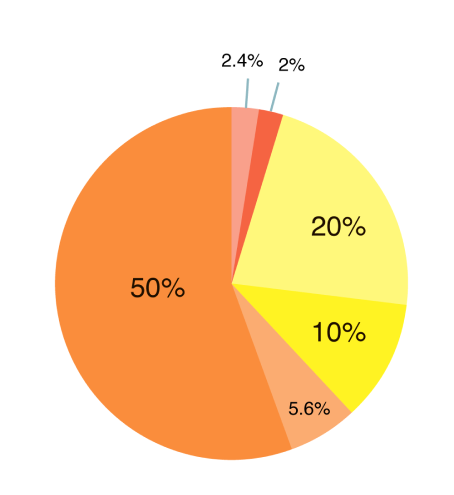
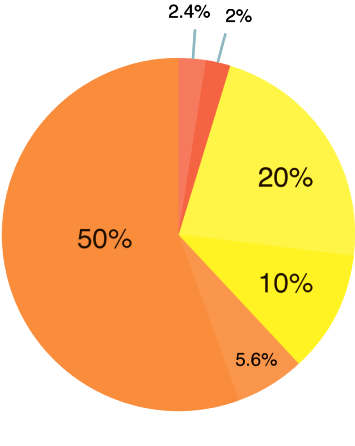
fix

diff --git a/src/assets/scss/pages/ieo/_ieo-info.scss b/src/assets/scss/pages/ieo/_ieo-info.scss
@@ -1,7 +1,7 @@
 .ieo_info{
 	max-width: 1409px;
 	margin: 0 auto;
-	padding: 1em 40px 1.5em 53px;
+	padding: 1.3em 40px 1.5em 53px;
 	@media(max-width: 1200px){
 		padding: 1em 15px 1em;
 	}
@@ -58,9 +58,12 @@
 	.graph-wr{
 		
 		img{
-				max-width: 100%;
+			max-width: 100%;
 			@media(min-width: 1201px){
-				margin-right: -3em;
+				width: 17.8em;
+				top: -1.6em;
+				position: relative;
+				left: 3.2em;
 			}
 		}
 	}
@@ -97,7 +100,7 @@
 				width: 14.2em;
 				@media(max-width: 1200px){
 					width: 30em;
-					    max-width: 33.333%;
+					max-width: 33.333%;
 
 				}
 			}
@@ -105,7 +108,7 @@
 				width: 12.3em;
 				@media(max-width: 1200px){
 					width: 30em;
-					    max-width: 33.333%;
+					max-width: 33.333%;
 
 				}
 			}
@@ -115,7 +118,7 @@
 			width: 11.7em;
 			@media(max-width: 1200px){
 				width: 30em;
-				    max-width: 33.333%;
+				max-width: 33.333%;
 
 			}
 		}

diff --git a/src/assets/scss/pages/ieo/_ieo-requirements.scss b/src/assets/scss/pages/ieo/_ieo-requirements.scss
@@ -8,7 +8,7 @@
 		// width: calc(73.7em + 40px);
 		margin: 0 auto;
 		    max-width: 1411px;
-		padding: 1.15em 40px 1.3em 51px;
+		padding: 1.15em 40px 1.1em 51px;
 
 		@media(max-width: 1200px){
 			padding: 1em 15px;
@@ -37,7 +37,7 @@
 	
 	.requirement-item {
 		display: flex;
-		padding: 1.7em 1.6em;
+		padding: 1.3em 1.6em;
 		justify-content: space-between;
 		align-items: center;
 		@media(max-width: 992px){

diff --git a/src/assets/scss/pages/ieo/_ieo_how_it_work.scss b/src/assets/scss/pages/ieo/_ieo_how_it_work.scss
@@ -66,10 +66,10 @@
 				text-align: center;
 			}
 			h5{
-				font-size: .95em;
+				font-size: .85em;
 				text-transform: uppercase;
 				color: #FFFFFF;
-				font-weight: 500;
+				font-weight: 400;
 				    margin-bottom: .6em;
     line-height: 1.27;
 			}

diff --git a/src/assets/scss/pages/ieo/_ieo-comunity.scss b/src/assets/scss/pages/ieo/_ieo-comunity.scss
@@ -5,7 +5,7 @@
 	.community-wr{
 		display: flex;
 		align-items: center;
-		padding: 1em 40px 1em 51px;
+		padding: 1.2em 40px 1.1em 51px;
 		    max-width: 1407px;
 		// width: calc(73.7em + 40px);
 		margin: 0 auto;
